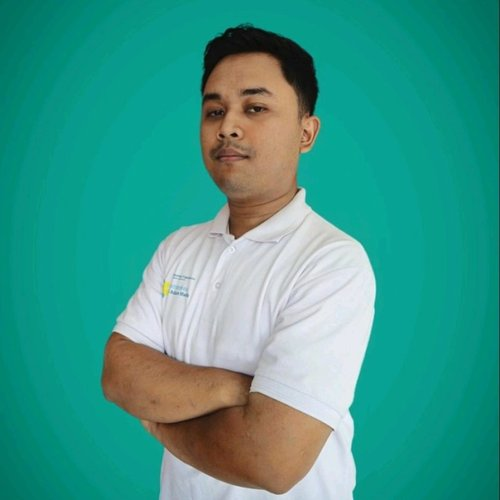
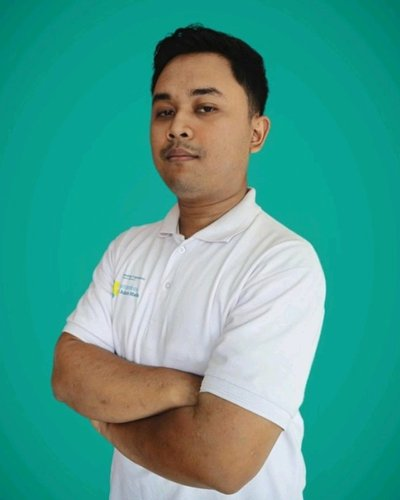
Terapkan insight Lighthouse: font-display, aspect ratio foto, cleanup preload
- Override font-display Font Awesome (default 'block') jadi 'optional'
  lewat @font-face duplikat, sesuai insight "Font display".
- Foto profil di-crop ulang dari sumber asli (800x800) ke rasio 4:5
  yang benar (400x500) sesuai container .about-photo-frame, bukan
  square 500x500 seperti sebelumnya - sekaligus lebih hemat 4KB.
- Sempat coba preload 3 font woff2 FA, tapi ini malah menurunkan skor
  simulasi Lighthouse (bersaing bandwidth di model throttling-nya)
  jadi dihapus lagi setelah terverifikasi. Performance 100 lokal
  setelah perubahan final (FCP 1.0s, LCP 1.1s, CLS 0).

diff --git a/index.html b/index.html
@@ -77,6 +77,9 @@
   <link rel="stylesheet" href="https://cdnjs.cloudflare.com/ajax/libs/font-awesome/6.5.1/css/all.min.css" crossorigin="anonymous">
 </noscript>
 <style>
+@font-face{font-family:"Font Awesome 6 Free";font-style:normal;font-weight:400;font-display:optional;src:url(https://cdnjs.cloudflare.com/ajax/libs/font-awesome/6.5.1/webfonts/fa-regular-400.woff2) format("woff2")}
+@font-face{font-family:"Font Awesome 6 Free";font-style:normal;font-weight:900;font-display:optional;src:url(https://cdnjs.cloudflare.com/ajax/libs/font-awesome/6.5.1/webfonts/fa-solid-900.woff2) format("woff2")}
+@font-face{font-family:"Font Awesome 6 Brands";font-style:normal;font-weight:400;font-display:optional;src:url(https://cdnjs.cloudflare.com/ajax/libs/font-awesome/6.5.1/webfonts/fa-brands-400.woff2) format("woff2")}
 *,*::before,*::after{box-sizing:border-box;margin:0;padding:0}
 
 :root{
